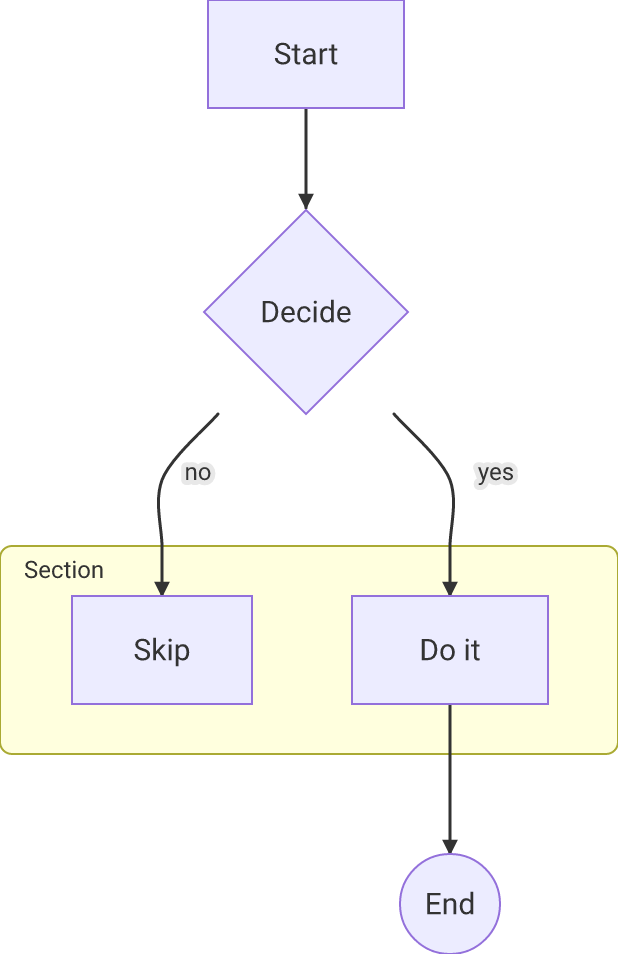
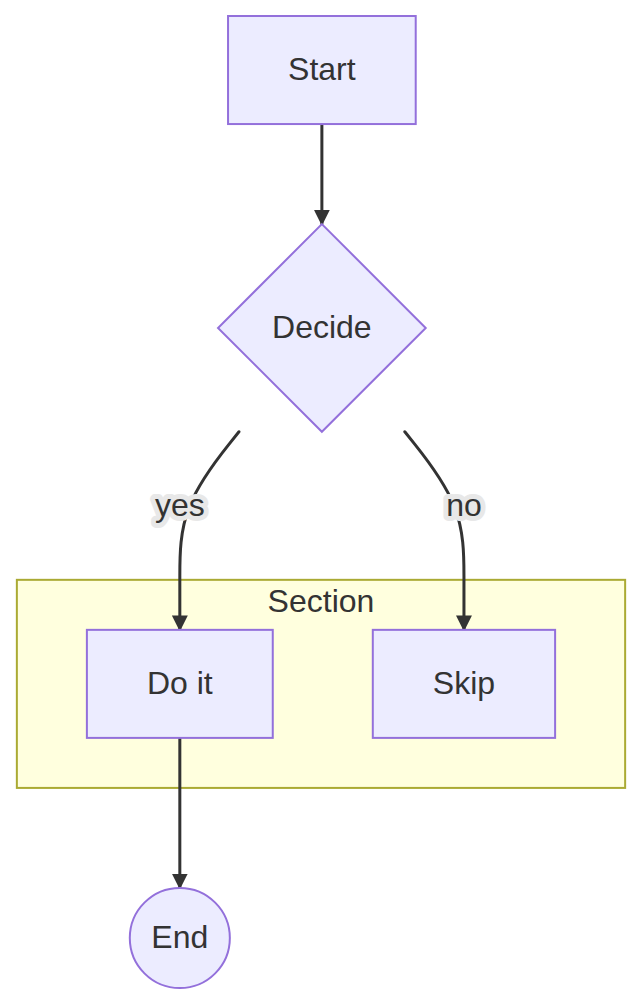
docs(research): regen visual-proof assets with dagre column

diff --git a/benches/mermaid-format/research/2026-06-14-flowchart-mermaid-style.md b/benches/mermaid-format/research/2026-06-14-flowchart-mermaid-style.md
@@ -28,22 +28,30 @@ to `"box"` in kymojson, so the cross-language contract and its goldens are
 unchanged; the only golden touched is one emit `.mmd` where a `(...)` node now
 round-trips as `(...)` instead of `[...]` (a fidelity fix).
 
-## Visual proof (same source, three renders)
+## Visual proof (same source, five renders)
 
-| kymo native | kymo **mermaid-style** | merman | mermaid.js 11.15 |
-|---|---|---|---|
-| ![](assets/2026-06-14-style/kymo-native.png) | ![](assets/2026-06-14-style/kymo-mermaid-style.png) | ![](assets/2026-06-14-style/merman.png) | ![](assets/2026-06-14-style/mermaidjs.png) |
+| kymo native | kymo **mermaid-style** | kymo **dagre** | merman | mermaid.js 11.15 |
+|---|---|---|---|---|
+| ![](assets/2026-06-14-style/kymo-native.png) | ![](assets/2026-06-14-style/kymo-mermaid-style.png) | ![](assets/2026-06-14-style/kymo-dagre.png) | ![](assets/2026-06-14-style/merman.png) | ![](assets/2026-06-14-style/mermaidjs.png) |
 
-The mermaid-style render matches mermaid.js's visual *language* closely: same node
-fill/border, sharp rectangles, diamond/circle glyphs, yellow `Section` cluster,
-`#333` filled arrows, edge-label backgrounds, no grid. What still differs is
-**layout** — node positions (kymo mirrors Do-it/Skip), edge curvature (kymo routes
-orthogonal Z-paths vs mermaid's splines), and cluster-label placement.
+Three kymo renders, left to right, show the progression:
 
-**merman** (third) is shown for contrast: as a Rust *port* of mermaid it reproduces
-mermaid.js's exact layout *and* style — note Do-it/Skip on the same sides, the same
-spline edges and cluster placement — which is why it overlays on mermaid.js at
-~1.5% (table below) while kymo, in either style, sits at ~14% on layout alone.
+- **kymo native** — kymo's own look *and* its own Sugiyama layout.
+- **kymo mermaid-style** (`mermaidToSvgStyled`) — mermaid *colours/shapes* on kymo's
+  Sugiyama layout. Matches the visual *language* (node fill/border, sharp rects,
+  diamond/circle, yellow `Section`, `#333` filled arrows, no grid) but **not the
+  layout**: it mirrors Do-it/Skip and routes orthogonal Z-edges, so the overlay
+  barely moves (~14%, the layout-dominated finding above).
+- **kymo dagre** (`mermaidToSvgDagre`) — the float-precision dagre path. Now matches
+  mermaid.js's **layout too**: Do-it left / Skip right, the full-width yellow
+  `Section` cluster spanning both, dagre ranks, and `curveBasis` spline edges. It is
+  visually indistinguishable from **merman** and **mermaid.js** (right two columns)
+  and overlays mermaid.js at **0.21%** on this exact diagram (see the float-precision
+  section below) — beating merman's port.
+
+**merman** is a Rust *port* of mermaid (exact dagre layout + style); it overlays
+mermaid.js at ~1.5% on the 5-file sample. The kymo **dagre** column shows kymo's
+own renderer reaching the same fidelity without the port.
 
 ## The pixel-overlay metric does NOT move — and why that's expected
 
